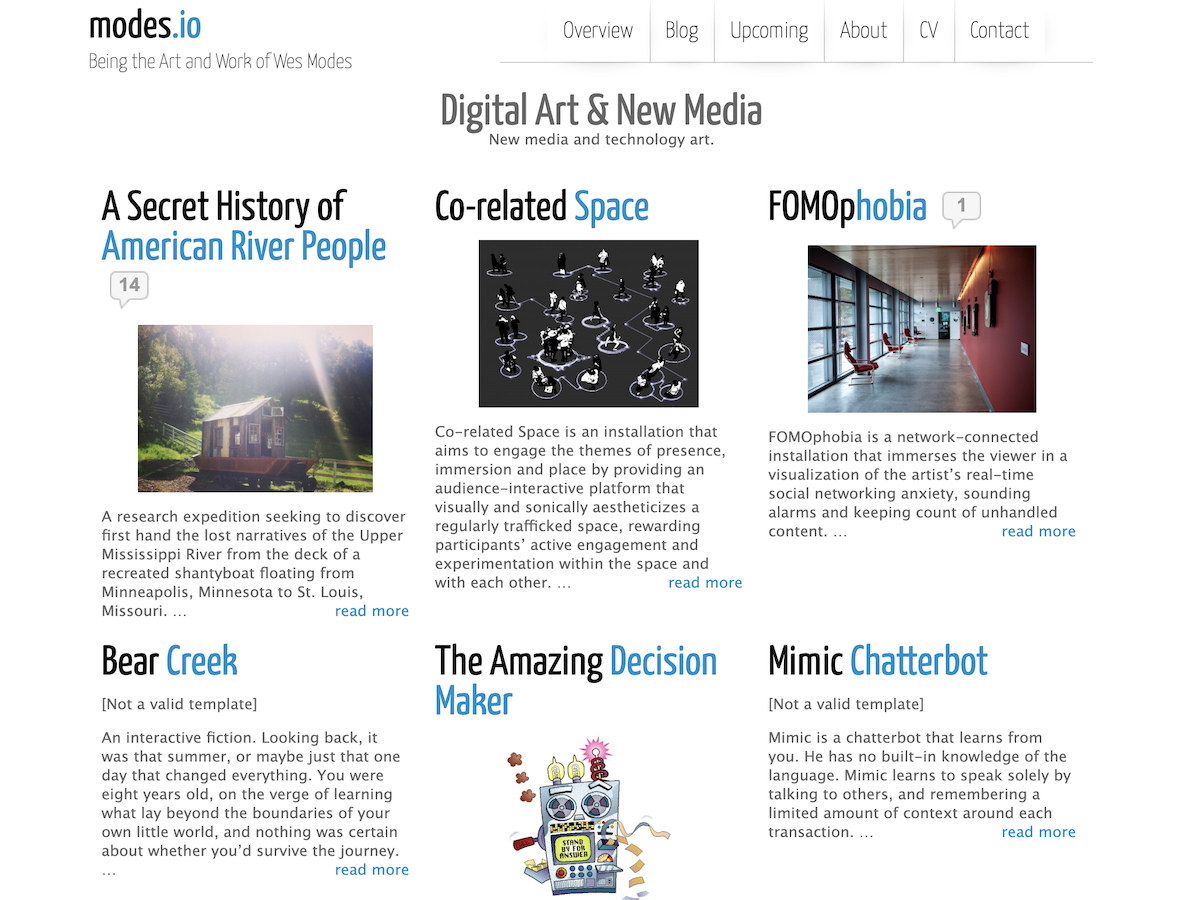
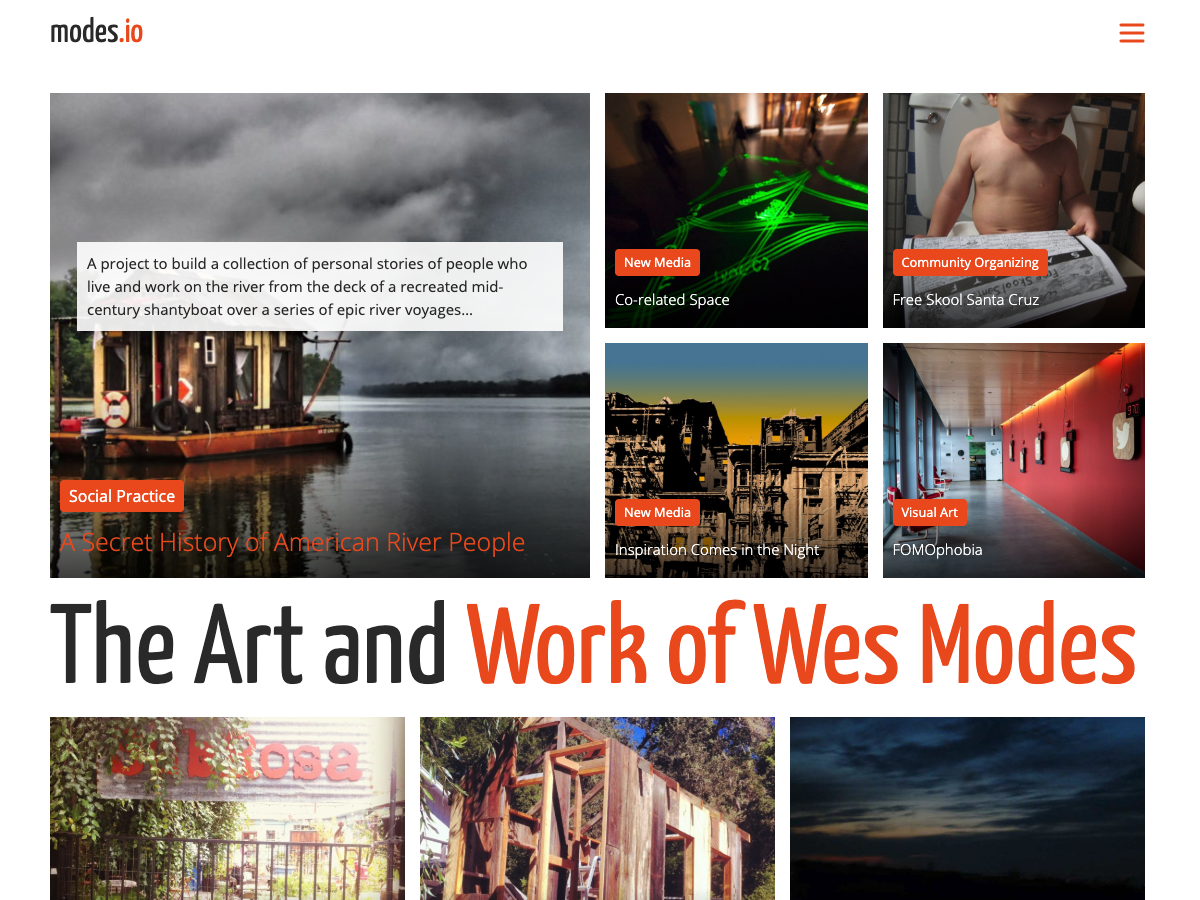
Updated README and screenshot

diff --git a/style.css b/style.css
@@ -789,7 +789,15 @@ hr {
 /* Remove tag and category links */
 
 .hentry .cat-links,
-.hentry .tags-links,
+.hentry .tags-links {
+    display:            block;
+}
+
+.hentry .entry-footer {
+    margin-bottom:      1em;
+}
+
+
 .hentry .edit-link {
     display:            none;
 }
@@ -1191,6 +1199,25 @@ body.category-blog .postbox .entry-meta {
     display:        inline-block;
 }
 
+/* Contact Form 7 */
+
+.wpcf7 .wpcf7-submit,
+.wpcf7 input-group[type=submit] {
+    color:          var(--link-font-color) !important;
+    border-color:   var(--link-font-color) !important;
+}
+
+.wpcf7 .wpcf7-submit:hover,
+.wpcf7 input:hover[type=submit] {
+    color: #fff !important;
+    background-color: var(--link-font-color) !important;
+    border-color:   var(--link-font-color) !important;
+}
+
+/* Remove recaptura logo and badge */
+.grecaptcha-badge {
+    display: none !important;
+}
 
 /**********************************************************
  *

diff --git a/README.md b/README.md
@@ -1,2 +1,70 @@
 # modes-io-wordpress-theme
 Wordpress theme (a child of understrap) for modes.io
+
+A re-design of the modes.io site (originally designed in 2013) from the groundup using a blank-slate theme and a flat information design.
+
+## Design Goals
+
+Here are the design goals for the modes-io-understap theme.
+
+### Organization
+
+Here are some suggested guidelines:
+
+1. No hierarchical organization
+1. Many ways to navigate site
+1. Everything is organized as flat posts of same category (without date organization)
+1. Very few if any "pages"
+1. Everything is well tagged and categorized
+1. Each post may belong to multiplee categories
+1. Selected categories (sculpture, social practice, community organizing, digital art) are featured in menus
+1. Menus link to category index pages
+
+### Post Presentation
+
+1. Focus on images and video
+1. Minimal text
+1. Link captions and photos credits to photos and video
+1. Some posts are presented without standard headers, footers, and asides, i.e., full page - but still need some way to navigate (like navburger or escape link)
+
+### Image Presentation
+
+1. Captions in the media library are mandatory, but possibly overridden by captions on the page.
+1. Images can be the width of the column, floated right, floated left, extra wide, or the width of the viewport. 
+1. Floated left or right images are max 500 wide and offset to the left or right -150px
+1. Galleries feature stacked images and are extra wide by 150px on either side
+1. Breakpoint when screen narrows at about 1000px stacks everything vertical
+
+### Image Treatment
+
+1. All posts have a feature photo
+1. Images are high contrast and saturated, with deep blacks
+1. All images are large enough to be used in any layout up to 1000px wide
+1. Generally they are in landscape orientation
+1. As much as possible, feature photos have people or action
+1. If given the choice, warm colors are better
+
+###  Index and Archive Pages
+
+1. Index pages are well presented in a magazine format
+1. Posts with "importance" tags (0-100) are more prominently placed in the visual hierarchy 
+1. Posts are sorted (in PHP/MySQL) by a weight that is the product of the posts importance and its primary categories importance
+1. Weight product is updated when page is edited or created
+1. Flexbox and grid are used to make page responsive.
+1. Category pages have category name and description under top group
+
+### Front Page Design
+
+1. Frontpage is divided into vertical sections that are approximately a half screen width high (desktop) and full width.
+1. Top section is arranged in a visual hierarchy in a variety of tight grid formats favoring the left
+1. Post photos have text near bottom, white san serif link text (turning link color on hover)
+1. Title text has a black gradient overlay to ensure readability
+1. Description drops down from above when hover over image for a post.
+1. Description has a white band, and black text over
+1. Button in link color above or below text specifies primary category and links to category page
+
+###Navigation
+
+1. Encourage "wandering" route through the site
+1. Minimal navigation, maybe only a navburger with a mega menu
+1. Related posts with a good related posts plugin
